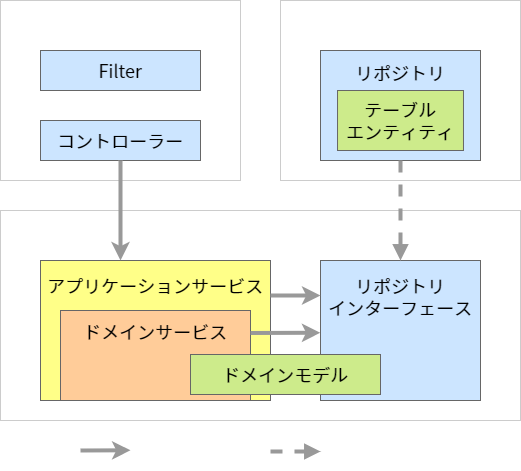
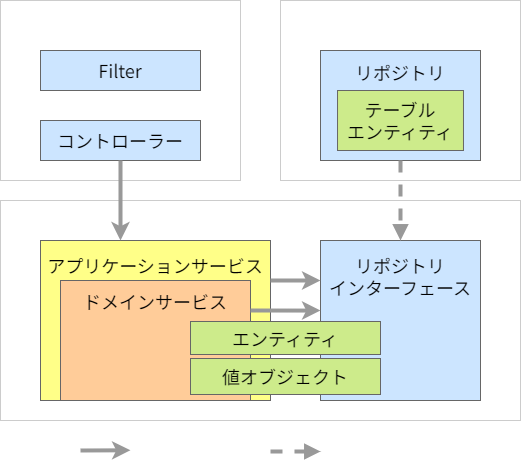
ドキュメントと画像の修正

diff --git a/documents/contents/app-architecture/client-side-rendering/test/backend-application/unit-test.md b/documents/contents/app-architecture/client-side-rendering/test/backend-application/unit-test.md
@@ -57,12 +57,12 @@ IDE および CI ツールを利用して、自動的に各ツールによるテ
 
 動的テスト ( UT0 ) のテスト対象は以下の通りです。
 
-- アプリケーションコア層 ( ドメインモデル / ドメインサービス / アプリケーションサービス )
+- アプリケーションコア層 ( エンティティ / 値オブジェクト / ドメインサービス / アプリケーションサービス )
 - システム共通部品 ( 全機能 )
 
 !!! note "他の層の単体テスト"
     アプリケーションにおいて最も重要なのはアプリケーションコア層に実装される業務ロジックです。
-    ドメインモデルやドメインサービス、アプリケーションサービスに実装されたロジックが、仕様通りに動作することが最重要です。
+    エンティティや値オブジェクト、ドメインサービス、アプリケーションサービスに実装されたロジックが、仕様通りに動作することが最重要です。
     アプリケーションコア層以外は、 UT0 でのテストの優先度が相対的に下がります。
     特にプレゼンテーション層とインフラストラクチャ層は、 UT0 より高いテストレベルでも、十分にテストを行うことができます。
 

diff --git a/documents/contents/guidebooks/how-to-develop/java/sub-project-settings/infrastructure-project-settings.md b/documents/contents/guidebooks/how-to-develop/java/sub-project-settings/infrastructure-project-settings.md
@@ -135,6 +135,6 @@ infrastructure プロジェクトの `src` 以下にある、 `InfrastructureApp
 
 ## MyBatis Generator によるコードの自動生成 {#code-generation-with-myBatis-generator}
 
-MyBatis Generator は、 MyBatis を使用する際に、データベースのテーブルからエンティティやマッパーインターフェース、 SQL マッピングファイルを自動的に生成するツールです。
+MyBatis Generator は、 MyBatis を使用する際に、データベースのテーブルからテーブルエンティティやマッパーインターフェース、 SQL マッピングファイルを自動的に生成するツールです。
 
 具体的な設定方法については、[こちら](./mybatis-generator-settings.md) を参照してください。
